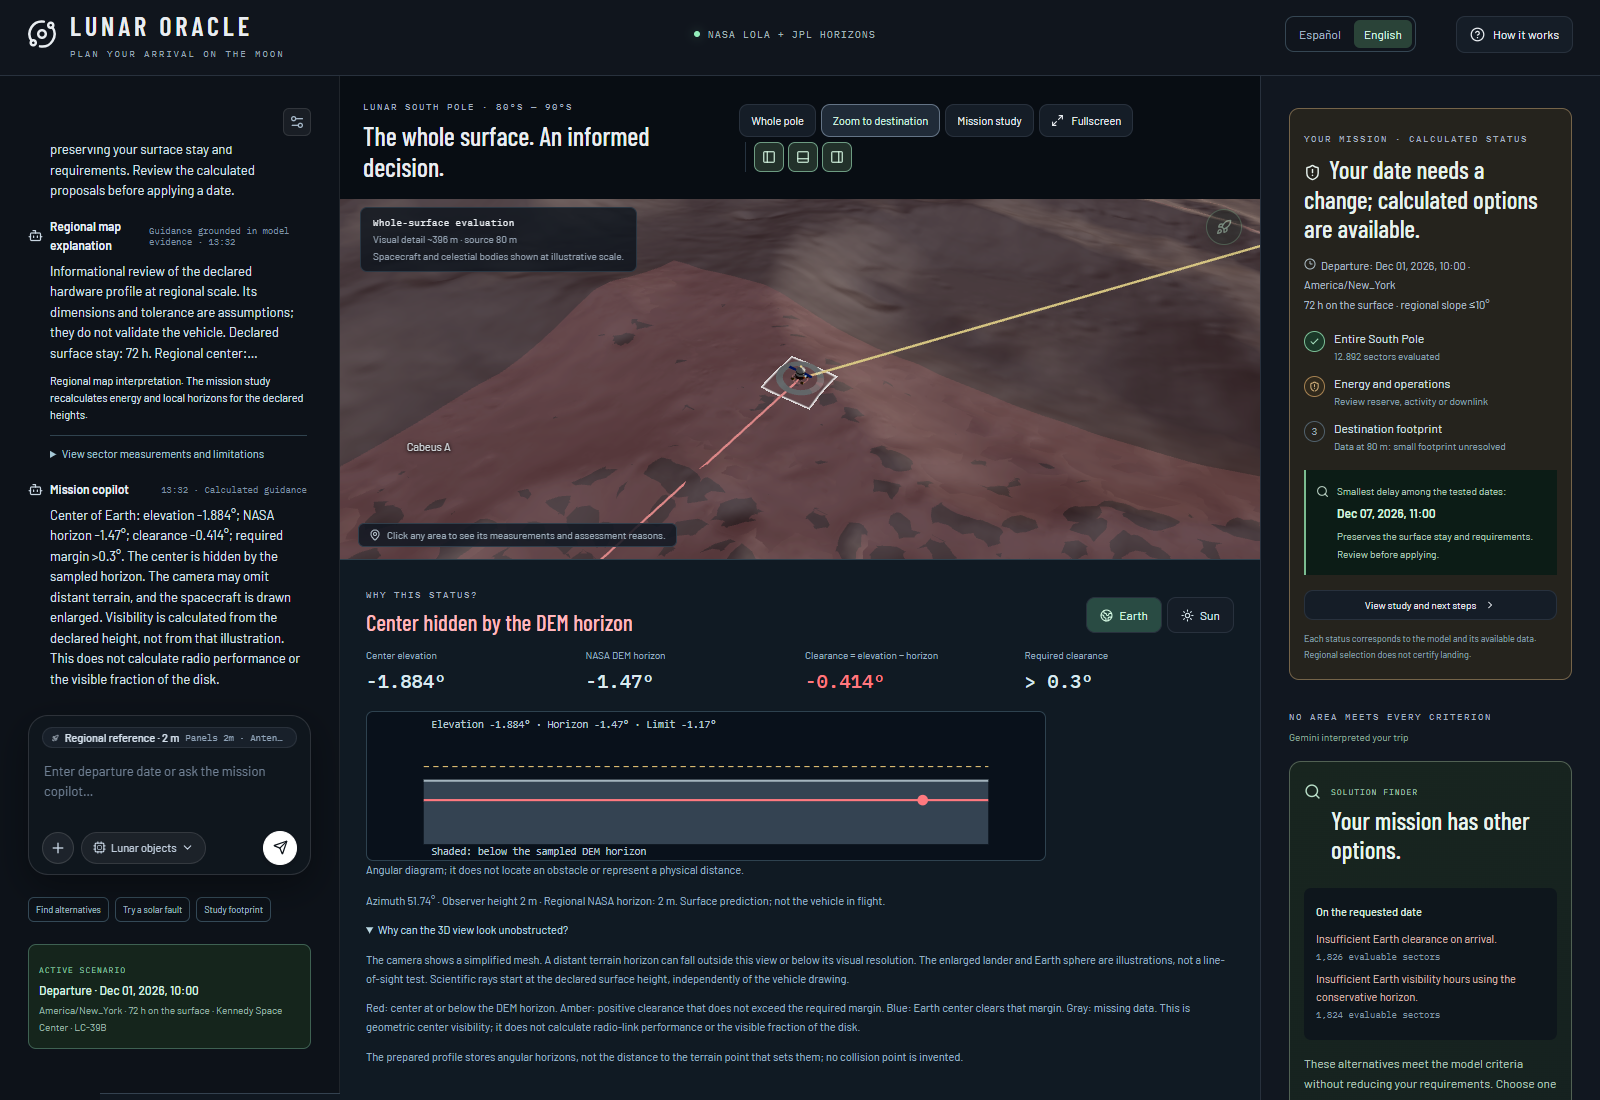
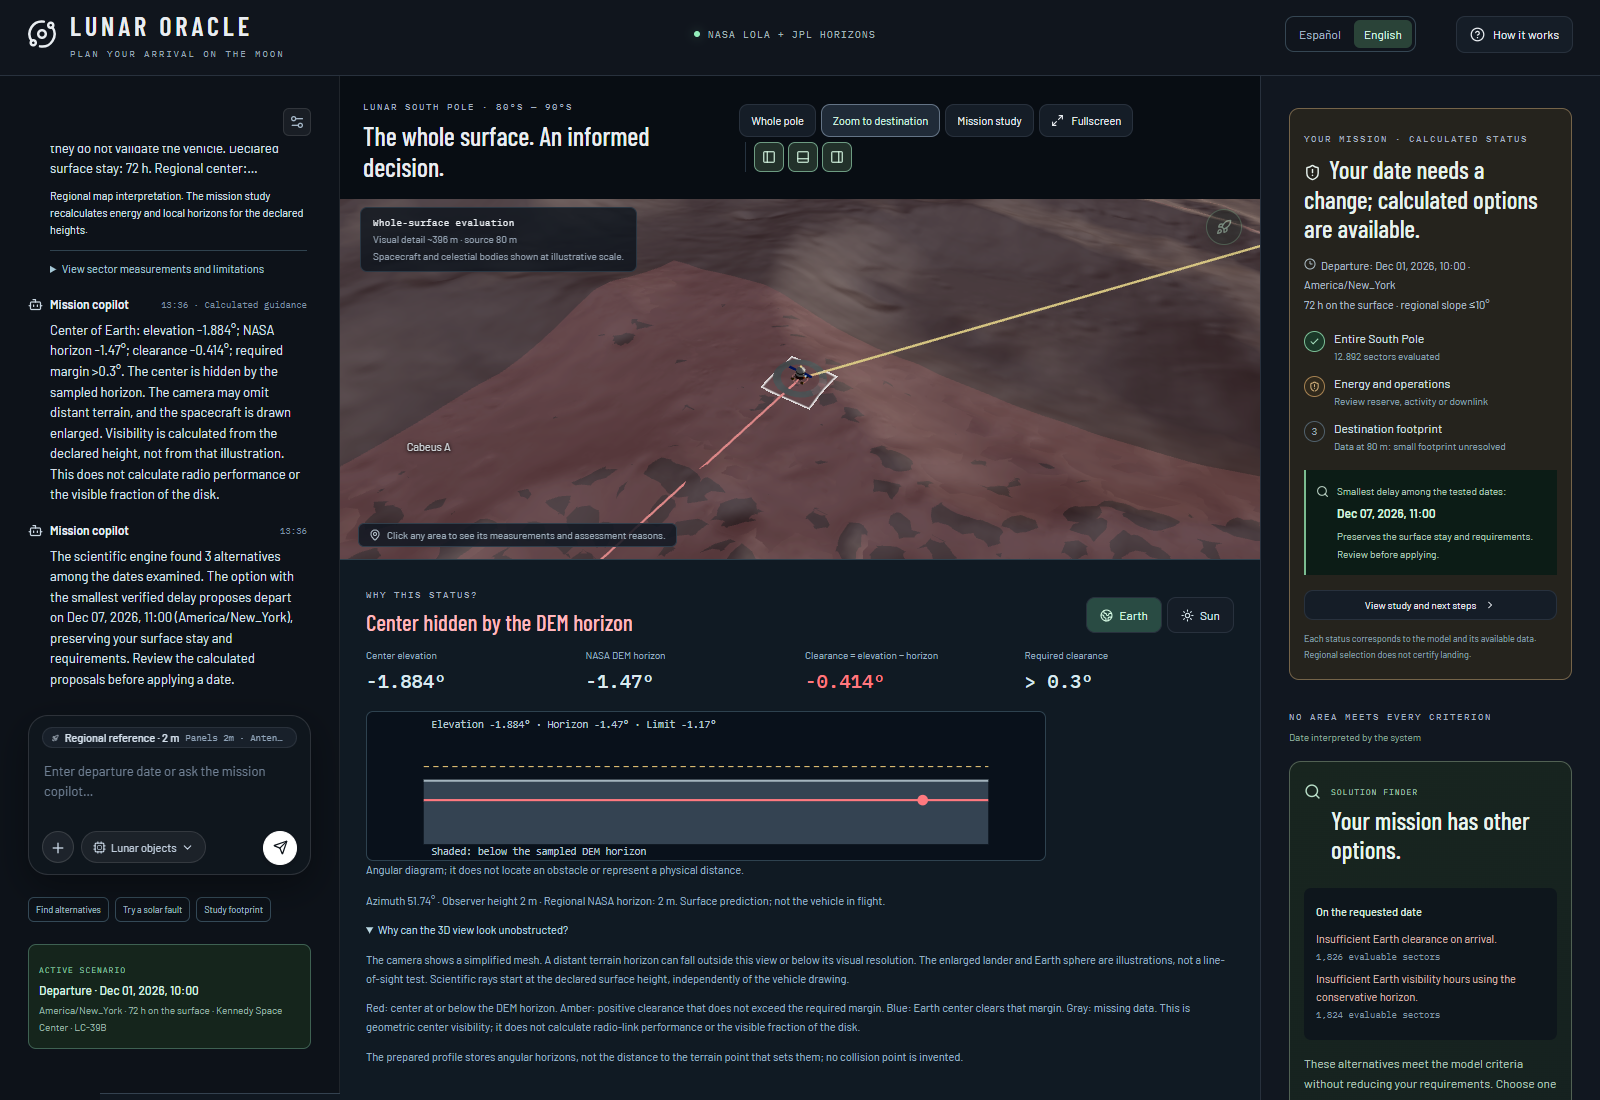
test: record bilingual visibility evidence and current layout regressions

Changed region(s): [[0.0312, 0.1236, 0.1875, 0.6491], [0.8125, 0.6491, 0.875, 0.68]]

diff --git a/docs/ENGLISH_AND_VISIBILITY.md b/docs/ENGLISH_AND_VISIBILITY.md
@@ -61,3 +61,5 @@ node frontend/scripts/test-automatic-mission.mjs
 ~~~
 
 The bilingual browser test exercises actual scientific APIs, the red Earth case, language persistence, conservation of NASA results across language changes, year clarification, mobile layout and English battery/solar experiments. Scientific data are calculated by the engines, not generated by a language model.
+
+[Recorded local validation](validation/bilingual-visibility.json) includes the reproduced angles and the completed test suites.
